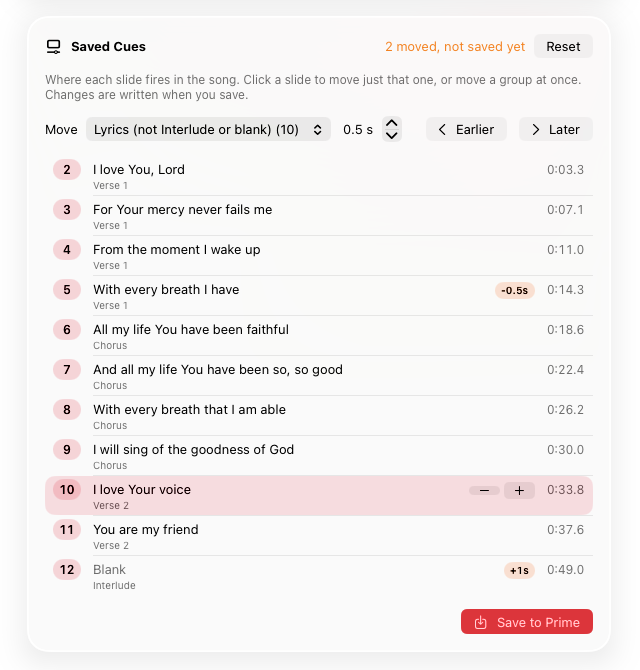
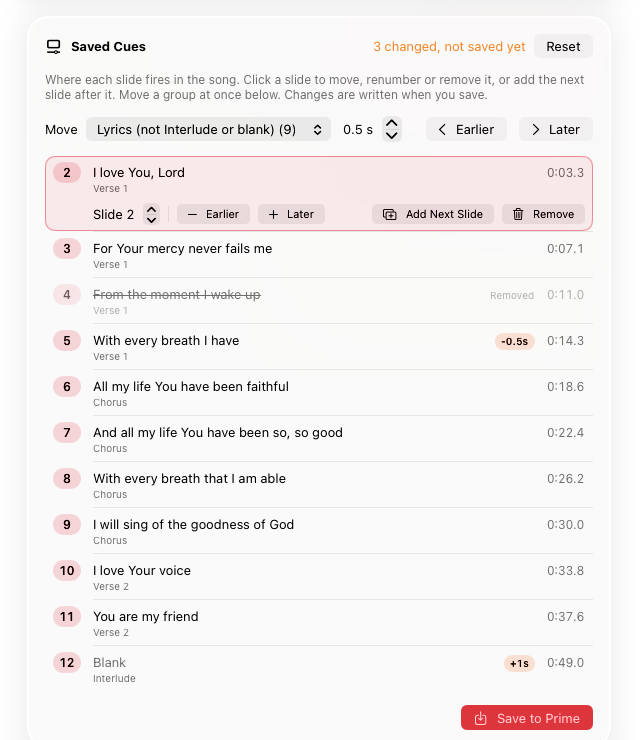
Site: editing cues and catching slips

Changed region(s): [[0.0625, 0.0299, 0.9375, 0.9851]]

diff --git a/site/index.html b/site/index.html
@@ -308,9 +308,9 @@
         <div class="copy">
           <p class="kicker">Lined up with the song</p>
           <h2>Timing that snaps to the music.</h2>
-          <p class="intro">Each section change you click (Verse, Chorus, Bridge) is matched to that section in Prime, so a cue lands on the beat even if your click was a little late. Cues fire half a second early by default to cover MIDI delay.</p>
+          <p class="intro">Each section change you click (Verse, Chorus, Bridge) is matched to that section in Prime, so a cue lands on the beat even if your click was a little late. Went to a slide too early and back? The app keeps the right click and shows the slip, so nothing stray gets saved. Cues fire half a second early by default to cover MIDI delay.</p>
         </div>
-        <img src="review.png" width="1020" height="692" alt="Ten recorded lyric cues, each with its slide text, section and beat. One Chorus slide is selected with − and + buttons and moved half a second later." loading="lazy">
+        <img src="review.png" width="1020" height="692" alt="Ten recorded lyric cues with their slide text, section and beat, below a note that one slide clicked early and taken back was left out. One cue is selected, showing its slide number, Earlier and Later, Add Next Slide and Remove." loading="lazy">
       </div>
       <div class="split flip">
         <div class="copy">
@@ -323,10 +323,10 @@
       <div class="split">
         <div class="copy">
           <p class="kicker">Fine-tune any cue</p>
-          <h2>Nudge a slide, or a whole group.</h2>
-          <p class="intro">Click any slide to move it a little earlier or later, right after recording or weeks later on a song that already has cues. Or move a group at once: bring the lyrics in a touch early and let Interlude and blank slides wait. Shift Lyric Cues moves the whole week in one go.</p>
+          <h2>Fix one slide, or a whole group.</h2>
+          <p class="intro">Click any cue, right after recording or weeks later on a song that already has cues, to move it a little earlier or later, change its slide number, remove it, or add the next slide after it. Or move a group at once: bring the lyrics in a touch early and let Interlude and blank slides wait. Shift Lyric Cues moves the whole week in one go.</p>
         </div>
-        <img src="saved-cues.png" width="640" height="670" alt="Saved Cues for Goodness of God: every slide with its words and time in the song, lyrics selected to move half a second earlier, one slide moved 0.5 seconds earlier and the Interlude slide 1 second later." loading="lazy">
+        <img src="saved-cues.png" width="640" height="740" alt="Saved Cues for Goodness of God: every slide with its words and time in the song. The first cue is selected with its slide number, Earlier, Later, Add Next Slide and Remove; one slide is removed, one moved half a second earlier and the Interlude slide a second later." loading="lazy">
       </div>
     </div>
   </section>
